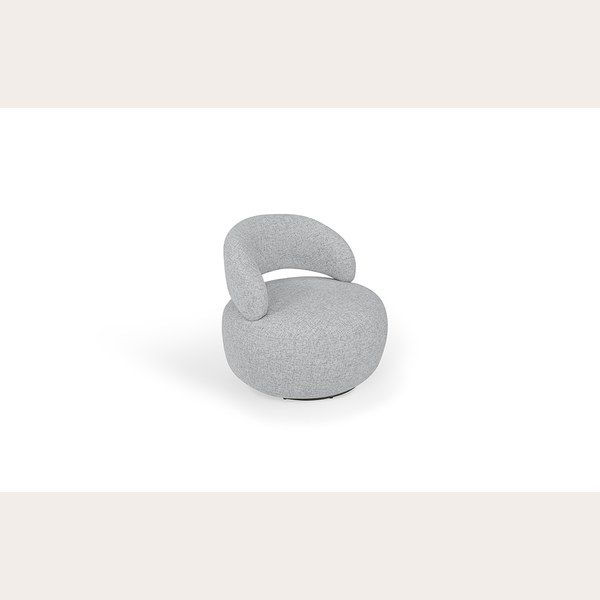
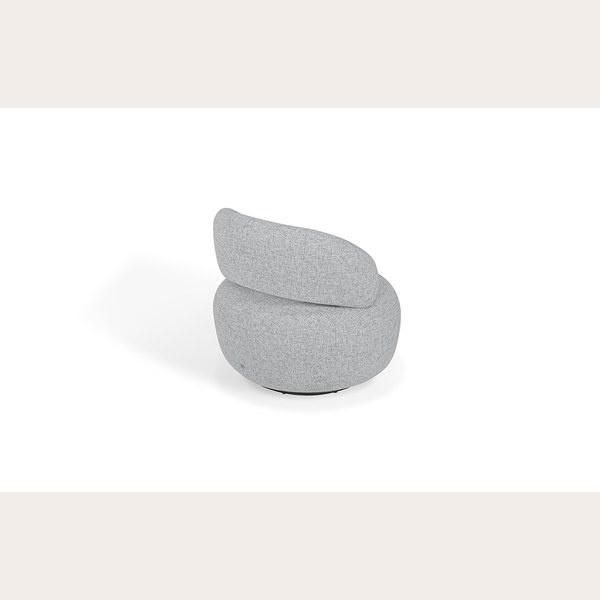
Feat: atualizar fotos de 11 produtos com imagens dos fornecedores
43 imagens baixadas, normalizadas 600x600 e data-imgs atualizados.
Maior ganho: Sonata (1→7 fotos), Vênus (3→4), Jow (4→5 fotos novas).

Changed region(s): [[0.33, 0.33, 0.69, 0.63], [0.39, 0.6, 0.6, 0.69]]

diff --git a/produtos.html b/produtos.html
@@ -246,7 +246,7 @@
             </div>
           </article>
           <article class="cat-card" data-tipo="sofa" data-id="novos-venus2" data-fornecedor="serragaucha"
-            data-imgs='["imagens/novos/venus2-1.jpg","imagens/novos/venus2-2.jpg","imagens/novos/venus2-3.jpg"]'
+            data-imgs='["imagens/novos/venus2-1.jpg","imagens/novos/venus2-2.jpg","imagens/novos/venus2-3.jpg","imagens/novos/venus2-4.jpg"]'
             data-wpp="https://wa.me/5519990034068?text=Tenho%20interesse%20no%20produto%20Sof%C3%A1%20V%C3%AAnus.%20Pode%20me%20enviar%20mais%20informa%C3%A7%C3%B5es%3F"
             data-specs="[{&quot;key&quot;:&quot;Assento&quot;,&quot;val&quot;:&quot;Fixo com mola bonnel, espuma D26 Soft e fibra manta&quot;},{&quot;key&quot;:&quot;Encosto&quot;,&quot;val&quot;:&quot;Fixo com almofadas soltas de fibra siliconada&quot;},{&quot;key&quot;:&quot;Pés&quot;,&quot;val&quot;:&quot;Madeira&quot;}]"
             data-description="O Sofá Vênus une conforto e elegância em um design atemporal para a sala de estar. Assento fixo com sistema de mola bonnel, espuma D26 Soft e manta de fibra. Encosto fixo com almofadas soltas preenchidas com fibra siliconada. Pés em madeira."
@@ -4695,7 +4695,7 @@
 
           <!-- INICIO BURITI -->
           <article class="cat-card" data-tipo="sofa" data-id="buriti-9130" data-fornecedor="buriti"
-            data-imgs='["imagens/buriti/sonata-1.jpg"]'
+            data-imgs='["imagens/buriti/sonata-1.jpg","imagens/buriti/sonata-2.jpg","imagens/buriti/sonata-3.jpg","imagens/buriti/sonata-4.jpg","imagens/buriti/sonata-5.jpg","imagens/buriti/sonata-6.jpg","imagens/buriti/sonata-7.jpg"]'
             data-wpp="https://wa.me/5519990034068?text=Tenho%20interesse%20no%20produto%20Sonata.%20Pode%20me%20enviar%20mais%20informa%C3%A7%C3%B5es%3F"
             data-specs="[]"
             data-description="O Sofá Sonata combina formas arredondadas com linhas suaves e pés de madeira embutidos em uma proposta de design contemporâneo e elegante. Assento fixo com espuma D-33 soft e Pillow Top de 18 cm garante conforto excepcional. Base em madeira maciça com efeito flutuante. Suporta até 130 kg por assento.">
@@ -4737,7 +4737,7 @@
             </div>
           </article>
           <article class="cat-card" data-tipo="poltrona" data-id="novos-jow" data-fornecedor="klassic"
-            data-imgs='["imagens/novos/jow-1.jpg","imagens/novos/jow-2.jpg","imagens/novos/jow-3.jpg","imagens/novos/jow-4.jpg"]'
+            data-imgs='["imagens/novos/jow-1.jpg","imagens/novos/jow-2.jpg","imagens/novos/jow-3.jpg","imagens/novos/jow-5.jpg","imagens/novos/jow-6.jpg"]'
             data-wpp="https://wa.me/5519990034068?text=Tenho%20interesse%20no%20produto%20Poltrona%20Jow.%20Pode%20me%20enviar%20mais%20informa%C3%A7%C3%B5es%3F"
             data-specs="[{&quot;key&quot;:&quot;Estrutura&quot;,&quot;val&quot;:&quot;Madeira de eucalipto&quot;},{&quot;key&quot;:&quot;Espuma&quot;,&quot;val&quot;:&quot;D28 alta densidade&quot;},{&quot;key&quot;:&quot;Base&quot;,&quot;val&quot;:&quot;Giratória ou balanço&quot;},{&quot;key&quot;:&quot;Acabamento&quot;,&quot;val&quot;:&quot;14 opções de cor&quot;}]"
             data-description="A Poltrona Jow combina conforto e estilo em um design compacto e versátil. Com estrutura em eucalipto e espuma de alta densidade, garante durabilidade e maciez. Disponível com base giratória ou de balanço e 14 opções de acabamento, a Jow se adapta a qualquer ambiente com personalidade e elegância."
